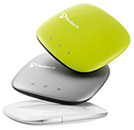
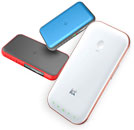
포켓파이 이미지 링크 수정

diff --git a/index.skin.php b/index.skin.php
@@ -114,10 +114,10 @@
 	<section class="main-event">
 		<ul class="main-event-wrap">
 			<li class="main-event-item-wrap">
-				<a href="/device/tpocketfim" class="main-small-banner-pocketfi vert-wrap">
+				<a href="/product/egg.php" class="main-small-banner-pocketfi vert-wrap">
 					<div class="vert-align">
 						<span class="main-small-banner-sub">데이터를 현명하게 쓰는</span><br/>
-						<span class="main-small-banner-tit">포켓파이 M</span>
+						<span class="main-small-banner-tit">LTE egg + A</span>
 					</div>
 				</a>
 			</li><li class="main-event-item-wrap">

diff --git a/product/devicesBannerPocketfi.skin.php b/product/devicesBannerPocketfi.skin.php
@@ -1,9 +1,9 @@
 <main class="list-banner-pocketfi">
-	<a href="/device/tpocketfim" class="list-banner-inner-pocketfi" id="link-banner-pocketfi">
+	<a href="/product/egg.php" class="list-banner-inner-pocketfi" id="link-banner-pocketfi">
 		<h1 class="list-banner-tit">
 			데이터를 언제 어디든지<br/>꺼내쓰는 현명한 방법
 			<br/>
-			포켓파이 M
+			LTE egg + A
 		</h1>
 		<button class="btn">엄청한 사은품과 함께 구매하기</button>
 	</a>
